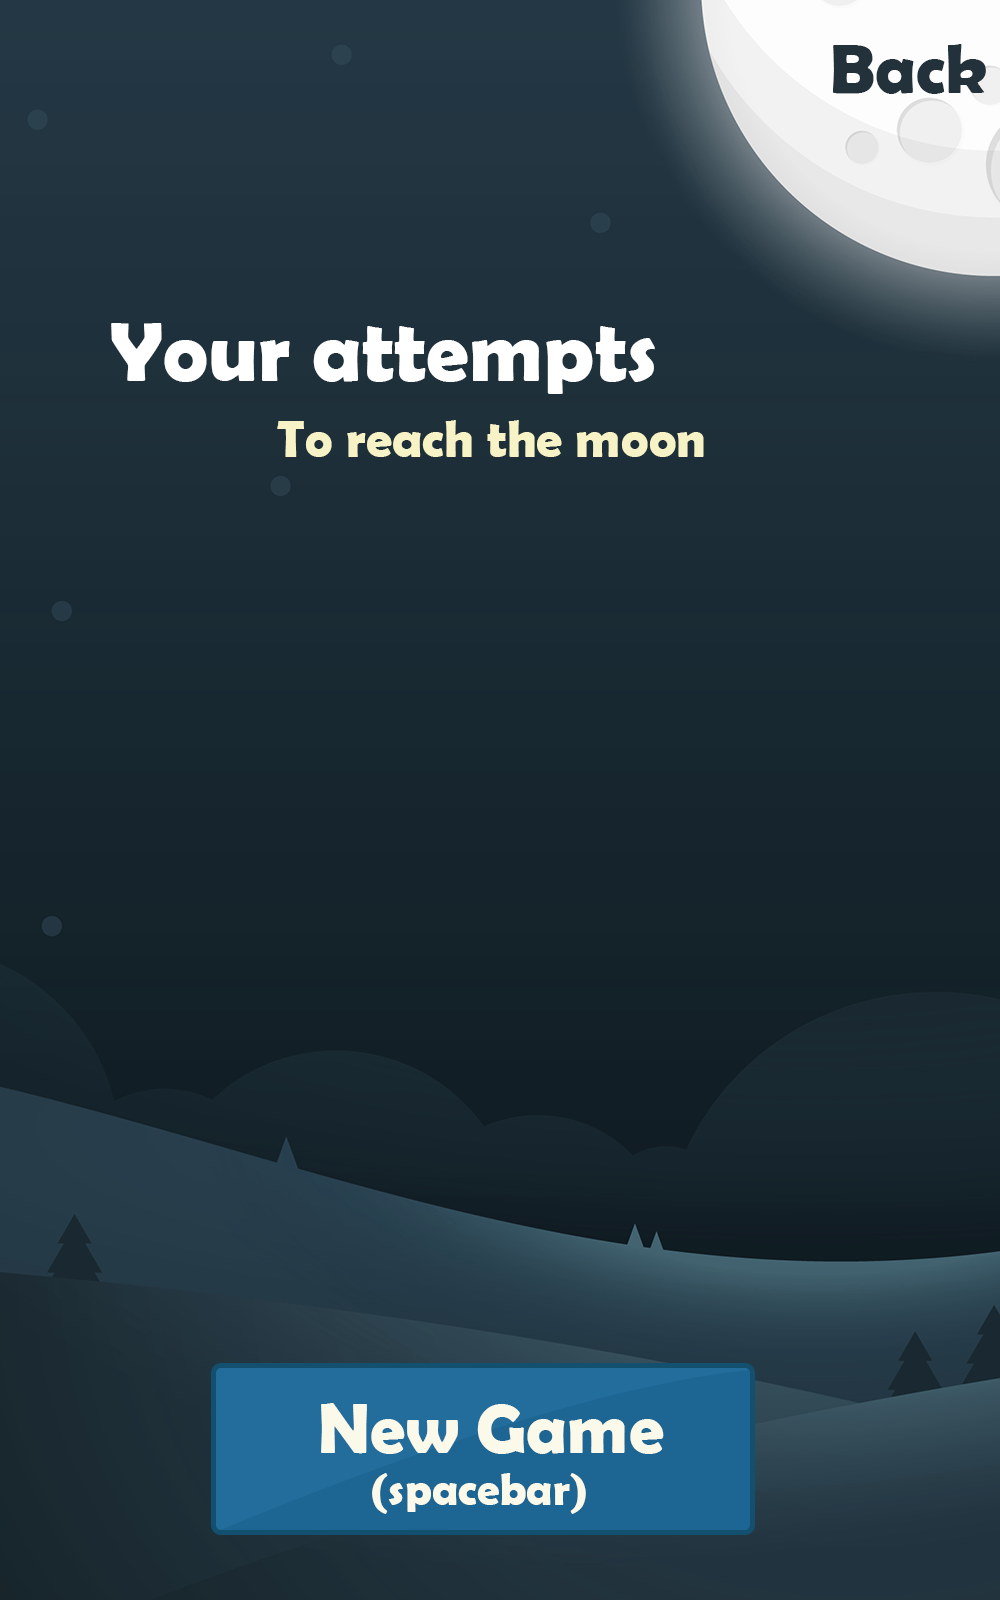
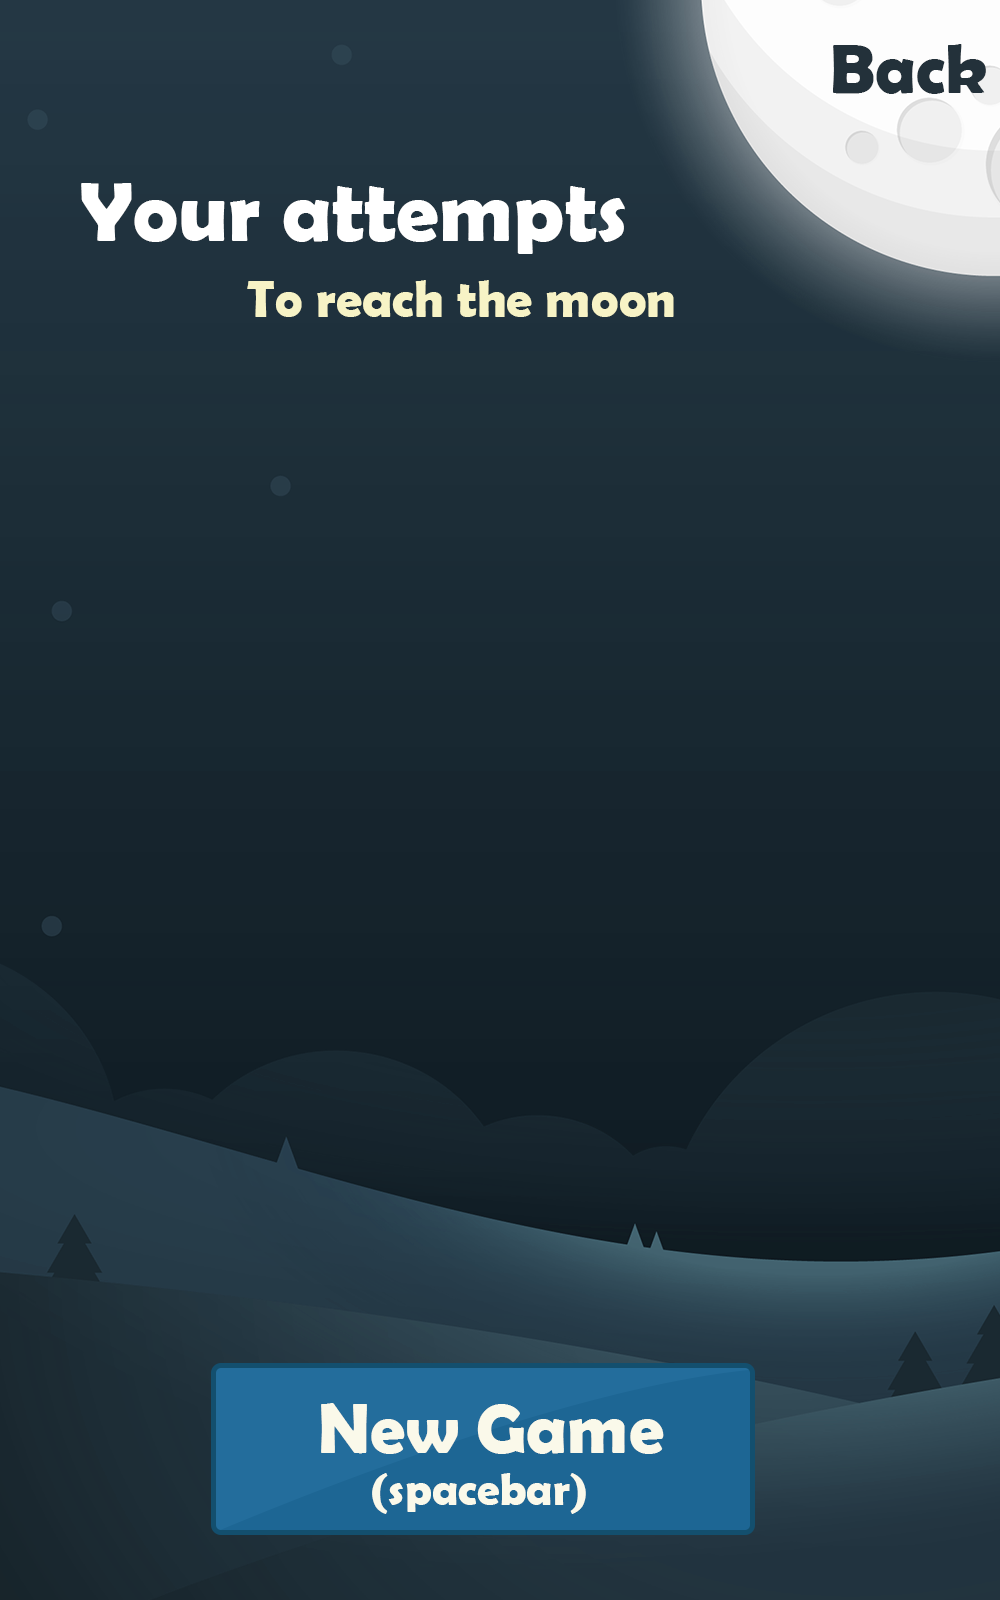
Changed stats screen, added best spring streak

Changed region(s): [[0.062, 0.0938, 0.713, 0.3125]]

diff --git a/js/game.js b/js/game.js
@@ -1,3 +1,4 @@
+// Main object that contains everything exept utility functions.
 let game = {
   started: false,
   maxSpeed: 20,
@@ -6,21 +7,26 @@ let game = {
   sensitivity: 4,
   tilt: 0,
   newBadges: 0,
-  cookies: ['badges', 'highScore', 'gamesPlayed', 'totalTime', 'lastTime', 'totalPlatforms', 'lastPlatforms', 'lastScore', 'totalScore', 'lastSprings', 'totalSprings']
+  cookies: ['badges', 'highScore', 'gamesPlayed', 'totalTime', 'lastTime', 'totalPlatforms', 'lastPlatforms', 'lastScore', 'totalScore', 'lastSprings', 'totalSprings', 'bestSpringStreak']
 }
 
+// After window loads initialize game.
 game.init = () => {
   game.stage = new createjs.Stage('myCanvas');
-  // getting cookies
+  // getting cookies. Cookie name corresponds to a property in game object
   game.cookies.forEach(o => game[o] = isNaN(getCookie(o)) ? 0 : new Number(getCookie(o)));
   game.badges = Badge.getFromCookie();
+  // Loading
   game.load();
+  // Check for new achievements every second
   game.badgeChecker = window.setInterval(Badge.checkForNewBadges, 1000);
+  // Start ticking.
   createjs.Ticker.addEventListener('tick', game.onTick);
   createjs.Ticker.setFPS(60);
 }
 
 game.load = () => {
+  // Loading text
   game.loading = new createjs.Text("Loading", "40px riffic", "#fff");
   game.loading.textBaseline = "middle";
   game.loading.textAlign = "center";
@@ -28,6 +34,7 @@ game.load = () => {
   game.loading.y = game.stage.canvas.height / 2;
   game.stage.addChild(game.loading);
   
+  // Preloading
   game.queue = new createjs.LoadQueue(true);
   game.queue.installPlugin(createjs.Sound);
   game.queue.loadManifest([
@@ -64,12 +71,14 @@ game.load = () => {
   game.queue.on('complete', game.showStartScreen);
 }
 
+// While game is loading
 game.progress = e => {
   let percent = Math.round(e.progress * 100);
-  game.loading.text = "Loading: " + percent + "%";
+  game.loading.text = "Loading: " + percent + "%"; // Show percentage of loading progress
   game.stage.update()
 }
 
+// Resets single game data and starts a new game
 game.start = () => {
   game.stage.removeAllChildren();
   game.levels = game.queue.getResult("levels");
@@ -93,28 +102,40 @@ game.start = () => {
 }
 
 game.createStats = () => {
-  game.stats = new createjs.Text("", "35px riffic", "#fdff66");
-  game.stats.y = 30;
-  game.stats.x = game.stage.canvas.width - 10;
-  game.stats.textAlign = "right";
+  // Creates the score or distance text element
+  game.scoreTxt = new createjs.Text("", "35px riffic", "#fdff66");
 
+  // And positions it in the top right part of the screen
+  game.scoreTxt.y = 30;
+  game.scoreTxt.x = game.stage.canvas.width - 10;
+  game.scoreTxt.textAlign = "right";
+
+  // Creates the badges text element
   game.badgesCount = new createjs.Text("", "20px riffic", "#fdff66");
+
+  // And positions it to the top right part of the screen
   game.badgesCount.y = 30;
   game.badgesCount.x = 10;
-  game.stage.addChild(game.stats, game.badgesCount);
+  game.stage.addChild(game.scoreTxt, game.badgesCount);
 }
 
 game.createBackgrounds = () => {
-  for (let i = game.levels.length - 1; i >= 0; i--) {
-    let bg = new createjs.Bitmap(game.queue.getResult("bg" + (i+1)));
+  for (let i = game.levels.length - 1; i >= 0; i--) { // Get all the background images
+    // Get the image
+    let bg = new createjs.Bitmap(game.queue.getResult("bg" + (i + 1)));
+    
+    // Position them under each other
     bg.x = 0;
     bg.y = game.levels[i].bg.y;
+    
+    // Background moving speed
     bg.distance = game.levels[i].bg.distance;
     game.stage.addChild(bg);
     game.bg.push(bg);
   };
 }
 
+// End game
 game.end = () => {
   game.started = false;
   let fall = createjs.Sound.play('end');
@@ -127,17 +148,19 @@ game.end = () => {
   game.totalSprings += game.lastSprings;
   
   // Set cookies
-  let t = new Date(Date.now() + 100000000000);
+  let t = new Date(Date.now() + 100000000000); // Set expiration date to looong in the future
   game.cookies.forEach(o => document.cookie = o + "=" + game[o] + "; expires=" + t.toGMTString() + ";");
   Badge.checkForNewBadges();
 
   game.showEndScreen();
 }
 
-game.moveUp = speed => {
+// Move the environment  (seems like player moving up, but environment moving down actually)
+game.moveUp = speed => { // param speed - the speed player is currently moving
+  // Move the platforms down
   game.platforms.forEach(o => {
     o.y += speed;
-    if (o.spring != undefined) o.spring.y += speed;
+    if (o.spring) o.spring.y += speed; // also move the springs on platforms (if any)
   });
   game.position += speed;
   for (let bg of game.bg)
@@ -154,8 +177,8 @@ game.onTick = (e) => {
     game.player.jump();
     game.player.move();
     for (p of game.platforms.filter(o => o.type == "moving")) p.move();
-    game.stats.text = game.score.toLocaleString() + " m";
-    game.stage.setChildIndex(game.stats, game.stage.getNumChildren() - 1);
+    game.scoreTxt.text = game.score.toLocaleString() + " m";
+    game.stage.setChildIndex(game.scoreTxt, game.stage.getNumChildren() - 1);
     game.badgesCount.text = "Badges: " + game.badges.length + "/" + game.allBadges.length;
     game.stage.setChildIndex(game.badgesCount, game.stage.getNumChildren() - 1);
   }
@@ -259,21 +282,23 @@ game.showStatsScreen = () => {
   let statsTxt = "\nTotal distance: " + game.totalScore.toLocaleString() + " m";
   statsTxt += "\nBest distance: " + game.highScore.toLocaleString() + " m";
   statsTxt += "\nLast game distance: " + game.lastScore.toLocaleString() + " m";
+  statsTxt += "\nAverage game distance: " + Math.round((game.totalScore / game.gamesPlayed)).toLocaleString() + " m";
 
   statsTxt += "\n\nGames Played: " + game.gamesPlayed.toLocaleString();
-  statsTxt += "\nTotal time played: " + msToTime(game.totalTime);
-  statsTxt += "\nLast game duration: " + msToTime(game.lastTime);
-  statsTxt += "\nAverage game duration: " + msToTime(game.totalTime / game.gamesPlayed);
+  statsTxt += "\nTotal time played: " + msToTimeWords(game.totalTime);
+  statsTxt += "\nLast game duration: " + msToTimeWords(game.lastTime);
 
   statsTxt += "\n\nTotal jumps: " + game.totalPlatforms.toLocaleString();
   statsTxt += "\nJumps in last game: " + game.lastPlatforms.toLocaleString();
 
   statsTxt += "\n\nTotal springs jumped: " + game.totalSprings.toLocaleString();
   statsTxt += "\nSprings jumped in last game: " + game.lastSprings.toLocaleString();
+  statsTxt += "\nBest spring jump streak: " + game.bestSpringStreak;
+
 
   let stats = new createjs.Text(statsTxt, "18px riffic", "#fff");
   stats.lineHeight = 28;
-  stats.y = 240;
+  stats.y = 180;
   stats.x = 60;
 
   game.stage.addChild(screen, startBtn, homeBtn, stats);
@@ -374,9 +399,16 @@ game.tilt = e => {
 // Reference: https://stackoverflow.com/a/9763769
 function msToTime(s) {
   var pad = n => ('00' + n).slice(-2);
-  return pad(s/3.6e6|0) + ':' + pad((s%3.6e6)/6e4 | 0) + ':' + pad((s%6e4)/1000|0) + '.' + pad(s%1000, 3);
+  return pad(s/3.6e6|0) + ':' + pad((s%3.6e6)/6e4 | 0) + ':' + pad((s%6e4)/1000|0);
 }
 // End of reference
+
+function msToTimeWords(s) {
+  let words = (s / 3.6e6 | 0) ? (s / 3.6e6 | 0) + ' h ' : '';
+  words += ((s % 3.6e6) / 6e4 | 0) ? ((s % 3.6e6) / 6e4 | 0) + ' min ' : '';
+  words += ((s % 6e4) / 1000 | 0) + ' s';
+  return words;
+}
 
 // Reference: https://stackoverflow.com/a/10730417
 function getCookie(name) {

diff --git a/js/Platform.js b/js/Platform.js
@@ -78,6 +78,7 @@ class Platform extends createjs.Sprite {
     }
     if (this.spring) {
       game.springStreak++;
+      game.bestSpringStreak = Math.max(game.springStreak, game.bestSpringStreak);
       let spring = createjs.Sound.play('boost');
       spring.volume = 0.8;
       this.spring.boost();
